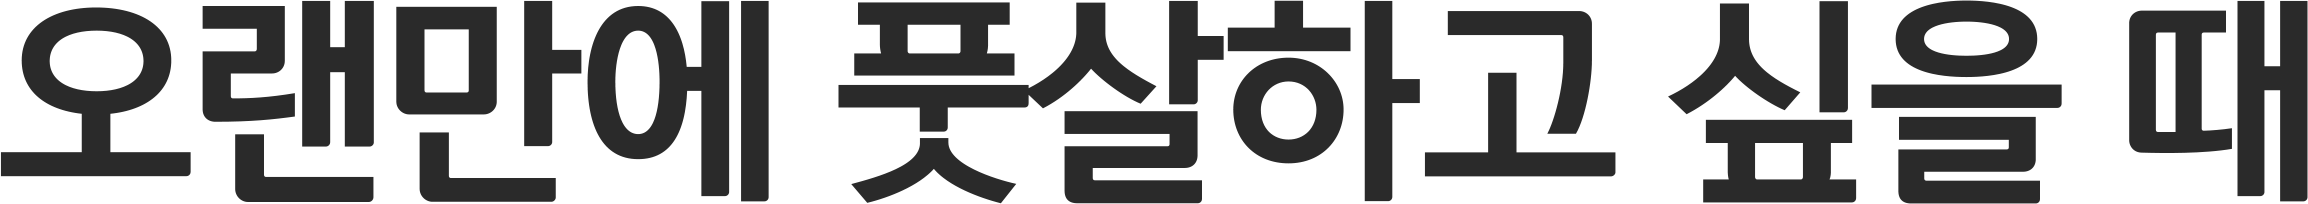
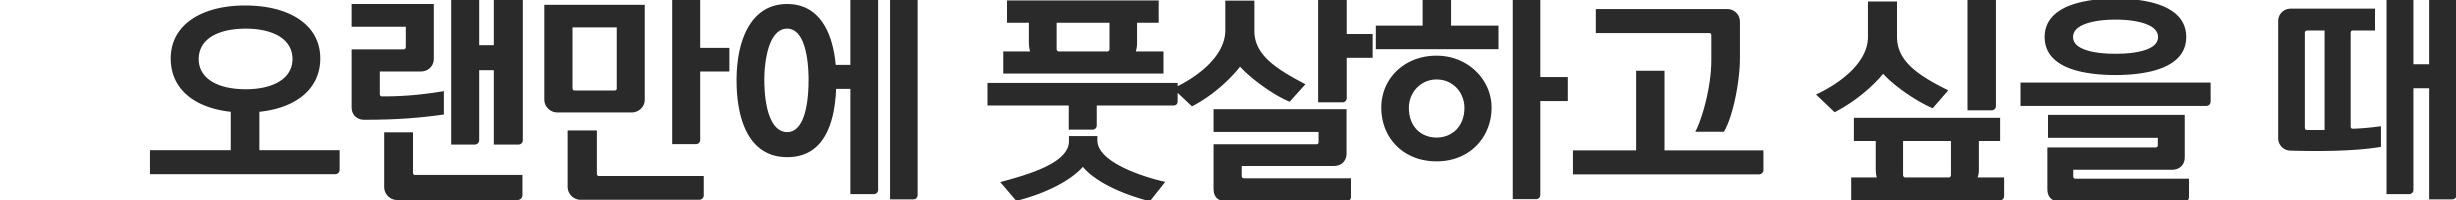
last

diff --git a/css/style.css b/css/style.css
@@ -9,7 +9,7 @@
     right: 100px;
     bottom: 100px;
     z-index: 899998989;
-    background: black;
+    background: transparent;
     border: none;
     outline: none;
     cursor: pointer;
@@ -946,9 +946,15 @@
 }
 #section012 .p3_back_typo{
     position: absolute;
-    left: 0;
+    left: -2456px;
     top: 498px;
+}
+#section012 .p3_back_typo .inner{
+    display: flex;
     animation: p3_typo 20s linear infinite;
+}
+#section012 .p3_back_typo .inner > div{
+    flex-shrink: 0;
 }
 
 #section012 .p3_center_box{
@@ -964,19 +970,27 @@
     left: 0;
     top: 0;
 }
-#section012 .p3_center_box .p3_stroke_typo{
+#section012 .p3_center_box .p3_stroke_inner{
     position: absolute;
-    left: -209px;
+    left: -2665px;
     top: 283px;
+}
+#section012 .p3_center_box  .p3_stroke_inner{
+    display: flex;
     animation: p3_typo 20s linear infinite;
 }
+#section012 .p3_center_box .p3_stroke_inner > div{
+    flex-shrink: 0;
+}
+
 
 @keyframes p3_typo {
     100%{
-        transform: translateX(2308px);
+        transform: translateX(2456px);
 
     }
 }
+
 #section012 .p3_phone{
     position: absolute;
     left: 554px;
@@ -1216,7 +1230,7 @@
 }
 @keyframes sl02_shadow {
     0%{
-        transform: scale(85%);
+        transform: scale(0.85);
     }
     100%{
         transform: scale(1);
@@ -1550,6 +1564,36 @@
     opacity: 1;
     transform: scale(1);
 }
+#section018 .my_line_01{
+    position: absolute;
+    left: 424px;
+    top: 773px;
+    transition: all 1s 1s;
+    opacity: 0;
+}
+#section018.on .my_line_01{
+    opacity: 1;
+}
+#section018 .my_line_02{
+    position: absolute;
+    left: 594px;
+    top: 778px;
+    transition: all 1s 1s;
+    opacity: 0;
+}
+#section018.on .my_line_02{
+    opacity: 1;
+}
+#section018 .my_line_03{
+    position: absolute;
+    left: 337px;
+    top: 989px;
+    transition: all 1s 1s;
+    opacity: 0;
+}
+#section018.on .my_line_03{
+    opacity: 1;
+}
 #section019{
     position: relative;
     width: 100vw;
@@ -1570,7 +1614,7 @@
     position: absolute;
     left: 477px;
     top: 1082px;
-    animation: fo_phone 2s alternate linear infinite;
+    animation: fo_phone_shadow 2s alternate linear infinite;
 }
 #section019 .fo_phone{
     position: absolute;
@@ -1580,12 +1624,21 @@
 }
 @keyframes fo_phone {
     0%{
-        transform: rotateY(25deg) translateY(35px);
+        transform: rotateY(15deg) translateY(35px);
     }
     100%{
         transform: rotateY(0) translateY(0px);
     }
     
+}
+@keyframes fo_phone_shadow {
+    0%{
+        transform: rotateY(15deg) translateY(35px) scale(0.92);
+    }
+    100%{
+        transform: rotateY(0) translateY(0px) scale(1);
+    }
+
 }
 #section019 .fo_title{
     position: absolute;

diff --git a/index.html b/index.html
@@ -13,9 +13,8 @@
 </head>
 <body>
 
-<div class="posNum"></div>
 
-<button class="startPoint"></button>
+<button class="startPoint"><img src="img/button/bu_button.png" alt=""></button>
 
 <section id="container">
 
@@ -158,10 +157,18 @@
         <div class="fl_chart"><img src="img/flowchart/fl_chart.png" alt=""></div>
     </section>
     <section id="section012">
-        <div class="p3_back_typo"><img src="img/phone_03/p3_back_typo.png" alt=""></div>
+        <div class="p3_back_typo">
+            <div class="inner">
+                <div><img src="img/phone_03/p3_back_typo.png" alt=""></div>
+                <div><img src="img/phone_03/p3_back_typo.png" alt=""></div>
+            </div>
+        </div>
         <div class="p3_center_box">
             <div class="p3_box"><img src="img/phone_03/p3_box.png" alt=""></div>
-            <div class="p3_stroke_typo"><img src="img/phone_03/p3_stroke_typo.png" alt=""></div>
+            <div class="p3_stroke_inner">
+                <div><img src="img/phone_03/p3_stroke_typo.png" alt=""></div>
+                <div><img src="img/phone_03/p3_stroke_typo.png" alt=""></div>
+            </div>
         </div>
         <div class="p3_phone"><img src="img/phone_03/p3_phone.png" alt=""></div>
     </section>
@@ -240,6 +247,9 @@
         </div>
         <div class="my_phone_01_frame"><img src="img/mypage/my_phone_01_frame.png" alt=""></div>
         <div class="my_phone_02"><img src="img/mypage/my_phone_02.png" alt=""></div>
+        <div class="my_line_01"><img src="img/mypage/my_line_01.png" alt=""></div>
+        <div class="my_line_02"><img src="img/mypage/my_line_02.png" alt=""></div>
+        <div class="my_line_03"><img src="img/mypage/my_line_03.png" alt=""></div>
     </section>
     <section id="section019">
         <div class="fo_background_01"><img src="img/footer/fo_background_01.png" alt=""></div>
